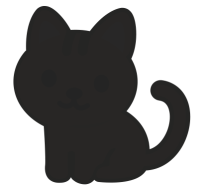
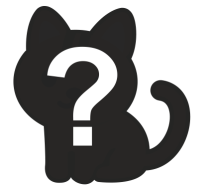
Added item thumbnails

Changed region(s): [[0.1991, 0.2406, 0.5687, 0.8021]]

diff --git a/index.html b/index.html
@@ -170,28 +170,45 @@
         }
 
         //not used yet
-        var itemDb = {
+        const itemDb = {
             0: {
                 itemName: "A black cat",
                 itemPath: "assets/gfx/cat/catBlack.json",
-                itemWorth: 37
+                itemWorth: 37,
+                itemThumb: "assets/img/small/catBlack.png",
             },
             1: {
                 itemName: "A black & white cat",
                 itemPath: "assets/gfx/cat/catBlackWhite.json",
-                itemWorth: 59
+                itemWorth: 59,
+                itemThumb: "assets/img/small/catWhiteBlack.png",
             },
             2: {
                 itemName: "An orange cat",
                 itemPath: "assets/gfx/cat/catA.json",
-                itemWorth: 23
+                itemWorth: 23,
+                itemThumb: "assets/img/small/catA.png",
             },
             3: {
                 itemName: "A poison flask",
                 itemPath: "assets/gfx/obj/poison.json",
-                itemWorth: 3
+                itemWorth: 3,
+                itemThumb: "assets/img/small/poison.png",
+            },
+            4: {
+                itemName: "A blue cat",
+                itemPath: "assets/gfx/obj/catBlue.json",
+                itemWorth: 67,
+                itemThumb: "assets/img/small/catBlue.png",
+            },
+            5: {
+                itemName: "Octocat",
+                itemPath: "assets/gfx/obj/octoCat.json",
+                itemWorth: 97,
+                itemThumb: "assets/img/small/octoCat.png",
             },
         };
+        const unknownItem = "assets/img/small/unknownCat.png";
 
         function showPrize(randNum) { //Process random number
             //Generate item
@@ -377,21 +394,27 @@
 
             var rowItemsDisplay = ""; //Need to be an empty string otherwise returns undefined
 
-            Object.keys(localStorage).forEach((key) => {
-                if (getItemAmount(key) <= 0) return;
+            Object.keys(itemDb).forEach((key) => {
+                var localStorageKey = localStorage.getItem(key);
                 rowItemsDisplay += "<tr>";
-                rowItemsDisplay += `<td>${itemDb[key]["itemName"]}</td>`;
-                rowItemsDisplay += `<td>${localStorage.getItem(key)}</td>`;
-                rowItemsDisplay += `<td><button class="btn btn-danger sell" id=${key}>${itemDb[key]["itemWorth"]}$</button></td>`;
-                rowItemsDisplay += "<tr>";
+                    rowItemsDisplay += `<td id="itemThumb"><img src="${localStorageKey && (getItemAmount(key) > 0)? itemDb[key]["itemThumb"] : unknownItem}"></td>`;
+                    rowItemsDisplay += `<td>${localStorageKey ? itemDb[key]["itemName"] : "???"}</td>`;
+                    rowItemsDisplay += `<td>${localStorageKey ? localStorage.getItem(key) : "???"}</td>`;
+                    if(localStorageKey && getItemAmount(key) > 0){
+                        rowItemsDisplay += `<td><button class="btn btn-danger sell" id=${key}>${itemDb[key]["itemWorth"]}$</button></td>`;
+                    } else {
+                        rowItemsDisplay += `<td></td>`;
+                    }
+                rowItemsDisplay += "</tr>";
             });
 
             document.getElementById("colItems").innerHTML = `
             <table class="table">
                 <thead>
-                    <th>Name</td>
-                    <th>Amount</td>
-                    <th>Sell</td>
+                    <th></th>
+                    <th>Name</th>
+                    <th>Amount</th>
+                    <th>Sell</th>
                 </thead>
                 <tbody>
                     ${rowItemsDisplay}
@@ -409,11 +432,13 @@
 
         function sell() {
             var itemCount = getItemAmount(this.id);
-            localStorage.setItem(this.id, itemCount - 1);
-            setCurrentCash(getCurrentCash() + itemDb[this.id]["itemWorth"]); //Should have a add cash method?
-            updateCashDisplayAmtCollection();
-            updateCashDisplayAmt();
-            updateCollection();
+            if(itemCount > 0) {
+                localStorage.setItem(this.id, itemCount - 1);
+                setCurrentCash(getCurrentCash() + itemDb[this.id]["itemWorth"]); //Should have a add cash method?
+                updateCashDisplayAmtCollection();
+                updateCashDisplayAmt();
+                updateCollection();
+            }
         }
 
         function restart(){

diff --git a/css/style.css b/css/style.css
@@ -57,3 +57,7 @@ body{
 #collection .modal-footer {  
     justify-content: space-between;  
 }
+
+#itemThumb img{
+    height: 5vh;
+}
